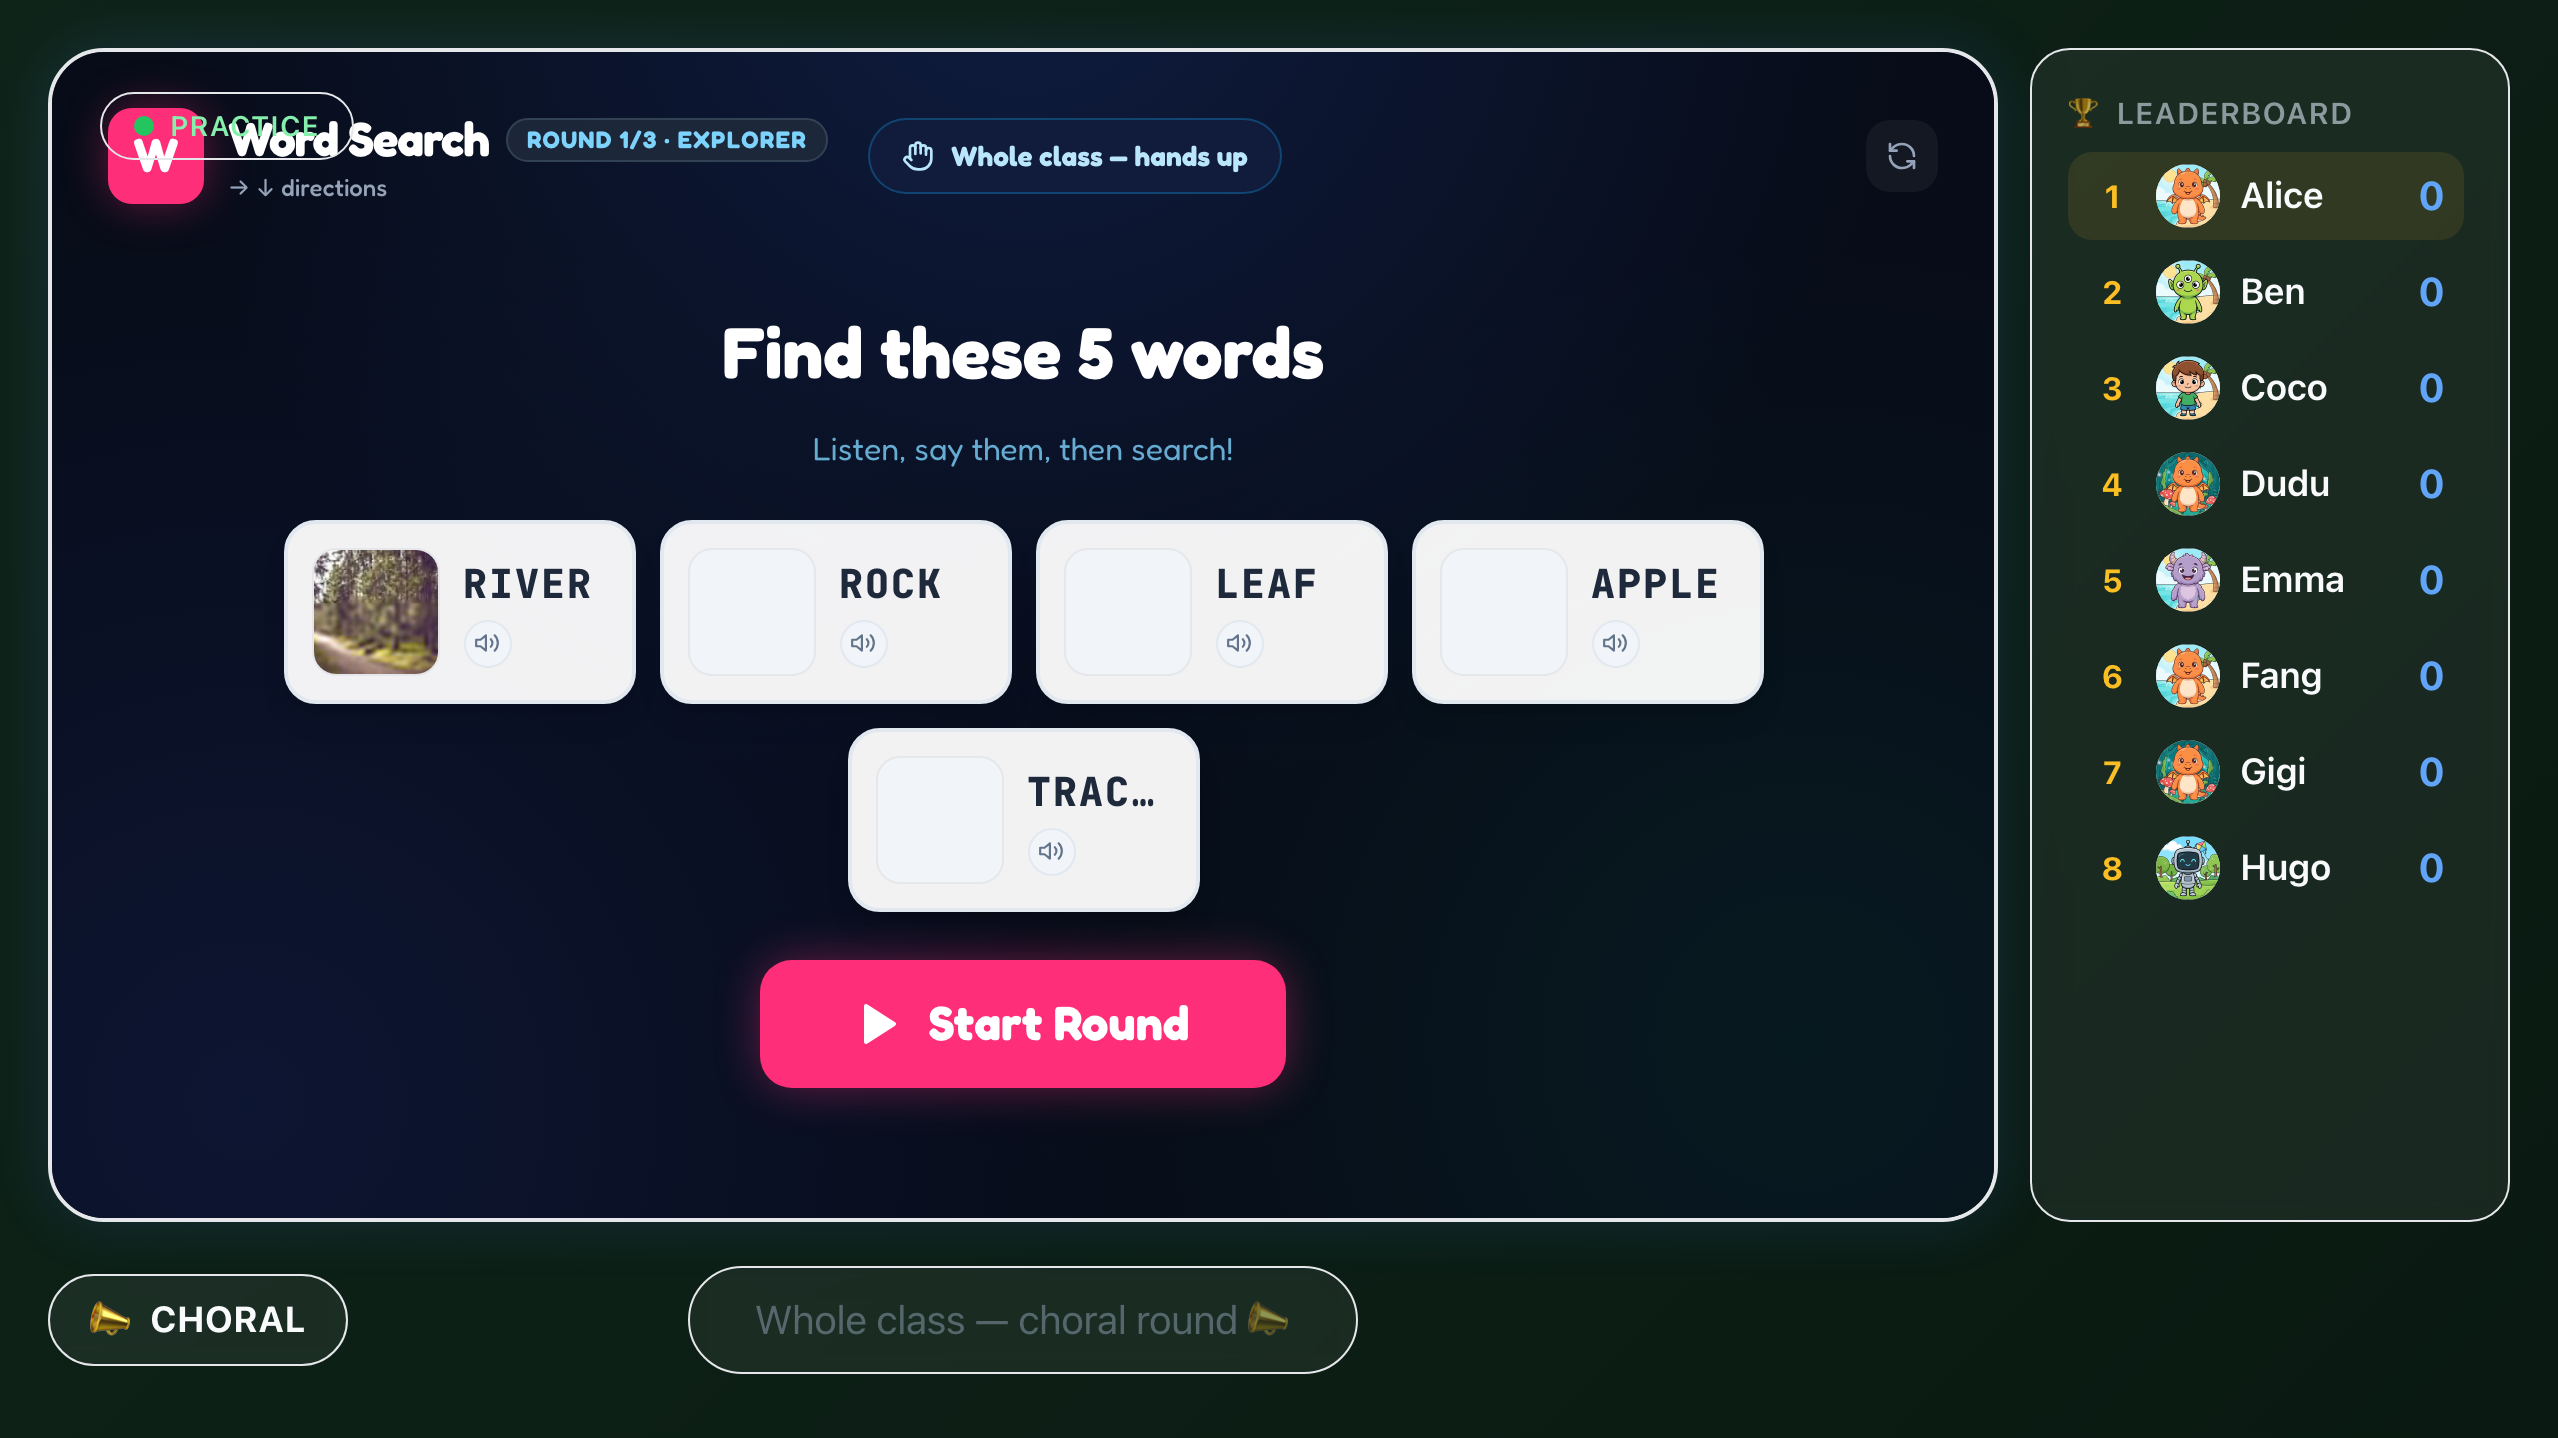
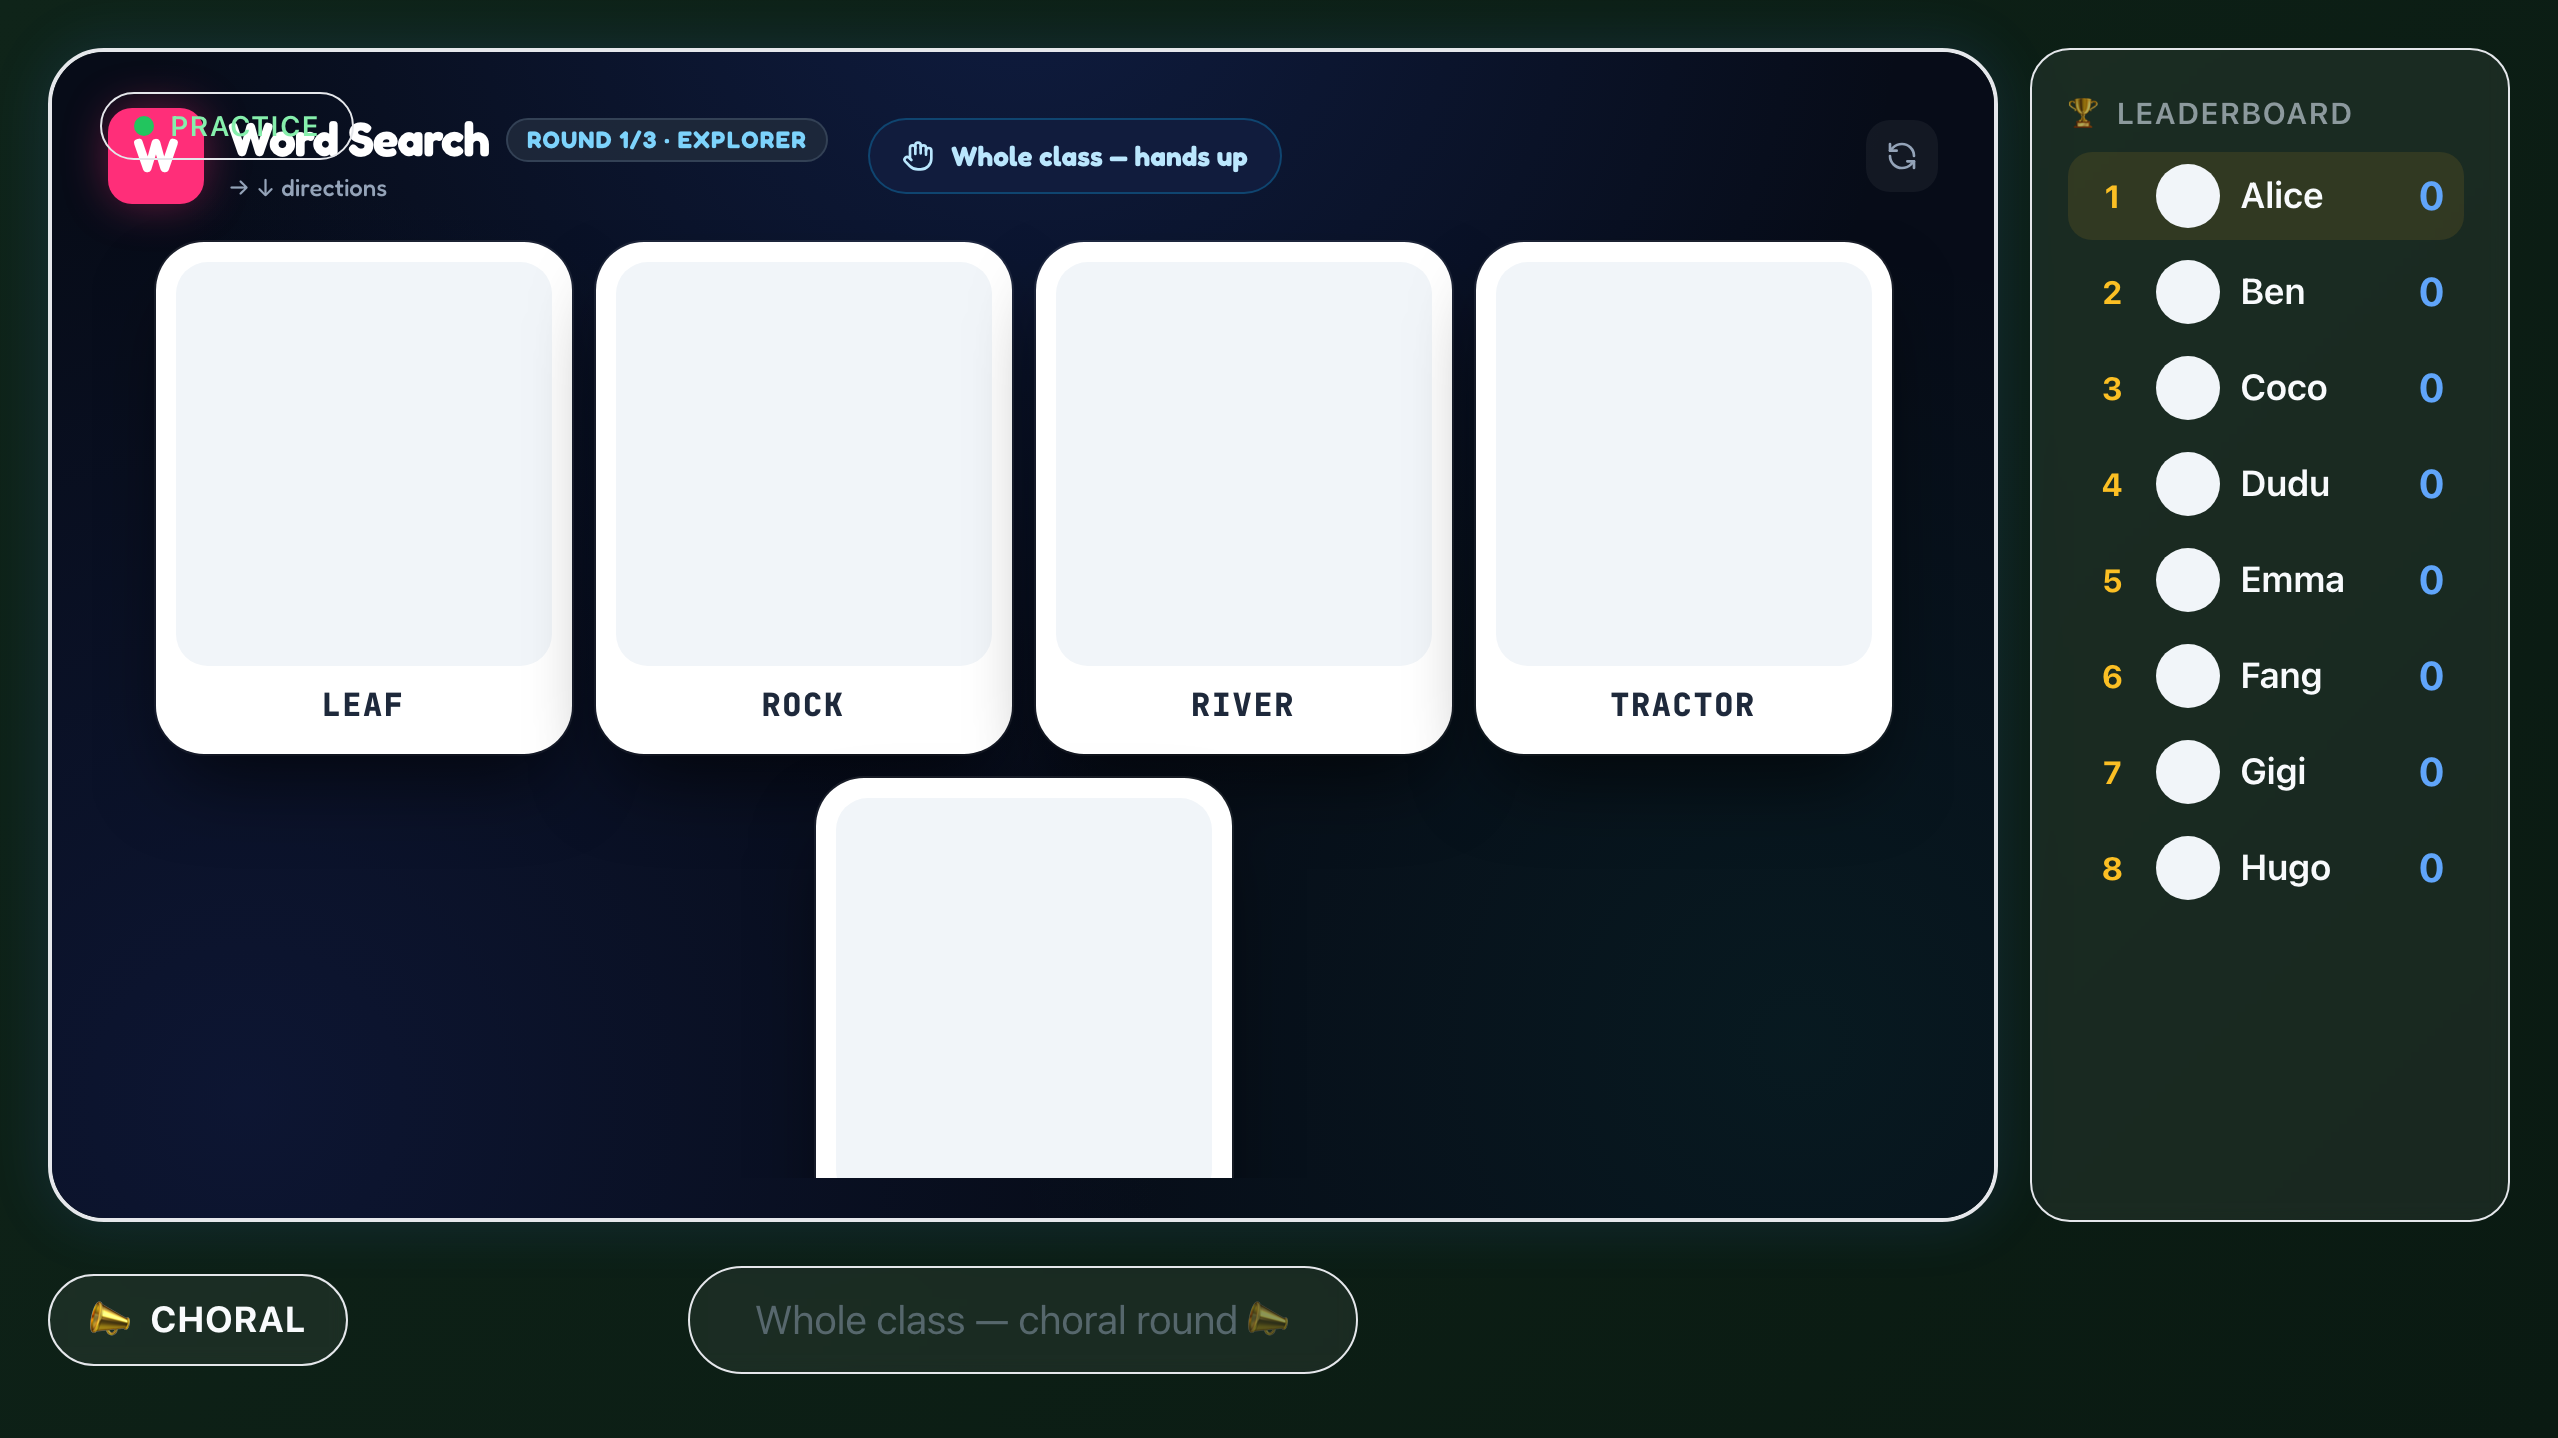
BoardWordSearch v3.1: preview follows the Stitch big-card design + fidelity-log process
Owner design review caught the round-preview shipping small rail-token
cards instead of the Stitch round_preview screen (big portrait photo
cards, huge display title, difficulty chip). Rebuilt to Stitch fidelity;
design-fidelity log added to §6 (mandatory for every future game:
Followed / Adapted / Deviated per Stitch screen — deviations are
owner-reviewable decisions, never silent).

diff --git a/apps/board/templates/BoardWordSearch.tsx b/apps/board/templates/BoardWordSearch.tsx
@@ -221,6 +221,48 @@ const TokenCard: React.FC<TokenCardProps> = ({ word, found, showWord, finderName
   );
 };
 
+// ── Preview card (round-preview stage) — the BIG portrait treatment from the
+// Stitch round_preview screen: photo fills the card, hover lift, speaker on
+// tap; the word strip appears only when the round shows words (Starter / r1 /
+// text-mode units).
+interface PreviewCardProps {
+  word: SearchWord;
+  showWord: boolean;
+  unitId: string;
+}
+
+const PreviewCard: React.FC<PreviewCardProps> = ({ word, showWord, unitId }) => {
+  const { play } = useSpeech({ text: word.word, audioUrl: word.audioUrl, lang: 'en', unitId });
+  return (
+    <button
+      onClick={() => play()}
+      className="ws-preview-card group relative w-32 h-44 sm:w-44 sm:h-56 lg:w-52 lg:h-64 xl:w-56 xl:h-72 bg-white rounded-3xl p-2.5 shadow-[0_20px_40px_-10px_rgba(0,0,0,0.65),0_0_0_1px_rgba(255,255,255,0.08)] transition-all duration-300 hover:scale-[1.04] hover:-translate-y-1.5 active:scale-95 flex flex-col"
+    >
+      <div className="flex-1 min-h-0 rounded-2xl overflow-hidden bg-slate-100">
+        {word.imageUrl ? (
+          <img src={word.imageUrl} alt="" className="w-full h-full object-cover" loading="lazy" />
+        ) : (
+          <div className="w-full h-full bg-sky-100 text-sky-500 font-black flex items-center justify-center text-5xl">
+            {showWord ? word.word.slice(0, 1) : '?'}
+          </div>
+        )}
+      </div>
+      {showWord ? (
+        <div className="shrink-0 pt-2 pb-0.5 flex items-center justify-center gap-1.5">
+          <span className="ws-mono font-extrabold tracking-wider text-slate-800 text-sm lg:text-base truncate">{word.word.toUpperCase()}</span>
+        </div>
+      ) : (
+        <div className="shrink-0 pt-2 pb-0.5 flex items-center justify-center gap-1.5">
+          <span className="ws-mono font-extrabold tracking-[0.18em] text-slate-400 text-xs lg:text-sm">{word.letters.split('').map(() => '_').join(' ')}</span>
+        </div>
+      )}
+      <span className="absolute bottom-2 right-2 w-7 h-7 rounded-full bg-slate-900/70 backdrop-blur text-white flex items-center justify-center opacity-0 group-hover:opacity-100 transition-opacity" title="Hear the word">
+        <Volume2 size={14} />
+      </span>
+    </button>
+  );
+};
+
 // ── Component ──────────────────────────────────────────────────────────────
 const BoardWordSearch: React.FC<{ data: any }> = ({ data }) => {
   useV3Fonts();
@@ -971,19 +1013,20 @@ const BoardWordSearch: React.FC<{ data: any }> = ({ data }) => {
       {header}
       <div className="md:hidden shrink-0 mt-1 [@media(max-height:430px)]:hidden">{modeChip}</div>
 
-      {/* ═══ PREVIEW — the round's words, INPUT moment ═══ */}
+      {/* ═══ PREVIEW — the round's words, INPUT moment (Stitch round_preview:
+          big portrait photo cards, huge display title, difficulty chip) ═══ */}
       {stage === 'preview' && grid && (
-        <div className="flex-1 min-h-0 flex flex-col items-center justify-center gap-4 lg:gap-6 animate-fade-in px-2">
-          <h2 className="text-2xl lg:text-4xl font-bold text-white text-center">
+        <div className="flex-1 min-h-0 flex flex-col items-center justify-center gap-2.5 lg:gap-4 animate-fade-in px-2 overflow-y-auto [@media(max-height:430px)]:gap-1.5">
+          <span className="inline-flex items-center gap-2 px-4 py-1 rounded-full bg-slate-800/90 border border-sky-500/30 text-sky-300 font-bold text-[10px] lg:text-xs uppercase tracking-widest whitespace-nowrap">
+            {PRESET === 'starter' ? 'Starter' : 'Explorer'} · {directionsLabel} only
+          </span>
+          <h2 className="text-3xl lg:text-5xl xl:text-6xl font-bold text-white text-center leading-none drop-shadow-[0_4px_16px_rgba(0,0,0,0.5)]">
             Find these {roundWords.length} words
           </h2>
-          <p className="text-sky-300/80 text-sm lg:text-base -mt-2">Listen, say them, then search!</p>
-          <div className="flex flex-wrap justify-center gap-3 max-w-4xl">
+          <p className="text-sky-300/80 text-xs lg:text-base">Listen, say them, then search!</p>
+          <div className="flex flex-wrap items-center justify-center gap-3 xl:gap-6 py-1 max-w-full">
             {roundWords.map((w) => (
-              <div key={w.id} className="w-36 lg:w-44">
-                <TokenCard word={w} found={undefined} showWord={showWordOnTokens} finderName={null}
-                  hinted={false} armed={false} onArm={() => {}} unitId={unitId} />
-              </div>
+              <PreviewCard key={w.id} word={w} showWord={showWordOnTokens} unitId={unitId} />
             ))}
           </div>
           <button onClick={startRound}

diff --git a/scripts/testing/games-v3-preview-retake.ts b/scripts/testing/games-v3-preview-retake.ts
@@ -38,7 +38,7 @@ async function main() {
     }
     await sleep(1000);
   }
-  await page.screenshot({ path: path.join(OUT, '26-preview.png') });
+  await page.screenshot({ path: path.join(OUT, '26-v3-preview.png') });
   console.log('📸 26-preview.png (retaken, stable)');
   await b.close();
 }

diff --git a/docs/audit/games-v3/26-word-search.md b/docs/audit/games-v3/26-word-search.md
@@ -258,6 +258,16 @@ Severity: **P1** = blocks learning / would stall a live lesson · **P2** = degra
 - Owner decisions applied: first miss warns (amber + "say the first sound"), −1 from the second; honest result variants (Great search! vs Let's learn these words recap; stars only for real found-success); Starter/Explorer presets (`PlanComposer.tsx` writes `preset:'starter'` default).
 - Verification: tsc clean · vitest 720 passed/1 skipped · production build clean · Playwright F0-gate green at 4 sizes · full reveal→summary flow probed end-to-end · after-shots `screenshots/26-v3-*.png`.
 
+**Design-fidelity log (Stitch screen → implementation):**
+| Stitch screen | Fidelity | Notes |
+|---|---|---|
+| Active search (main) | **Followed** | Layout, tokens, HUD, colors 1:1; mock chrome bound to real data (sync dot, game class score). |
+| Round preview | **Adapted, then fixed after owner review** | v1 shipped small rail-token cards (engineering shortcut — flagged by the owner 2026-09-10); v2 follows Stitch: big portrait photo cards, huge title, difficulty chip. At the emergency phone floor the cards wrap and the preview may scroll (play stage never scrolls). |
+| Selection & feedback | **Followed** | SVG glow strokes implemented as layered lines; start-cell/tap-last hint kept. |
+| Time's up | **Followed** | Banner + reveal-remaining/next-round choices. |
+| Attribution micro-state | **Adapted** | Stitch used a second token system (Material-style); restyled onto the night/accent system, kept the layout and paused-timer treatment. |
+| Results (recap variant) | **Followed + extended** | Success variant (stars) added per the honest-results decision; recap follows Variant B. |
+
 **Known remainder (not this game's fault):** at the 700×320 phone floor the BoardShell's leaderboard rail still consumes ~44% of width (392 px left for the game) — logged to `_CROSS-CUTTING.md` for the responsive workstream. Board-mid-game pool refetches no longer blank the game; the commander-side attribution route (Co-Work 4.b) is follow-up scope.
 
 **Commit:** see `git log` — `BoardWordSearch v3: Stitch redesign (games-v3 pilot) — F0 grid fix + 15 audit findings`. Deploy: push to master → Vercel (verified per AGENTS.md §8).

diff --git a/docs/audit/games-v3/_INDEX.md b/docs/audit/games-v3/_INDEX.md
@@ -82,3 +82,5 @@ Registry facts (for reference): `BOARD_MAP` in `apps/board/templates/boardMap.ts
 - 2026-09-09 — **Owner refined the language rule**: English-first, avoid Chinese on challenge surfaces WHEN POSSIBLE — not a strict ban; instructions/tips/rules/exercise descriptions may use Chinese when needed for clarity. Hard parts remain: never make the answer trivially visible, hints over answers. Updated: `_CROSS-CUTTING.md` (global rule), `26-word-search.md` (reconciliation + §5 Stitch prompts + QA checklist), `12-unscramble.md`, `21-sentence-lab.md`, `18-word-detective.md` (notes), `prompts/cowork-master-prompt.md` (rule #5 for all future Co-Work runs).
 
 - 2026-09-10 — **PILOT COMPLETE: Word Search v3 implemented + deployed.** Full loop validated end-to-end: 26 comments → per-game files → Co-Work §4 → Stitch §5 (owner ran 6 prompts) → implementation (4 files, 16 findings fixed incl. F0 grid 0–13 px → 775 px @1080p, gate-verified at 4 sizes) → tsc/vitest/build green → pushed to master. The loop is ready for the batch (18 remaining commented games + cross-cutting). Owner note: BoardShell leaderboard rail is the next responsive blocker (phone floor).
+
+- 2026-09-10 — **Owner design review → preview-screen fidelity fix + process upgrade.** The owner caught the round-preview shipping small cards instead of the Stitch big-portrait-card design (my silent engineering shortcut). Fixed to Stitch fidelity (big photo cards, huge title, difficulty chip — `26-v3-preview.png`), and a **design-fidelity log is now mandatory in every §6** (per Stitch screen: Followed / Adapted / Deviated + why). Principle recorded: Stitch is the design source of truth; deviations are owner-reviewable decisions, never silent.

diff --git a/docs/audit/games-v3/_TEMPLATE.md b/docs/audit/games-v3/_TEMPLATE.md
@@ -86,4 +86,4 @@ The teacher performs **all input**. Kids answer orally, point, or come to the fr
 
 ## §6 ⬜ Stitch output & implementation notes
 
-<Owner drops the Stitch export into `stitch/<NN>-<game>/` and notes the filename here; ZCode records what was implemented, what was adapted and why, commit hash, deploy verification.>
+<Owner drops the Stitch export into `stitch/<NN>-<game>/` and notes the filename here; ZCode records: implementation notes, **a design-fidelity log (per Stitch screen: Followed / Adapted + why / Deviated + why)**, commit hash, deploy verification. Deviations are decisions the owner reviews — never silent.>
